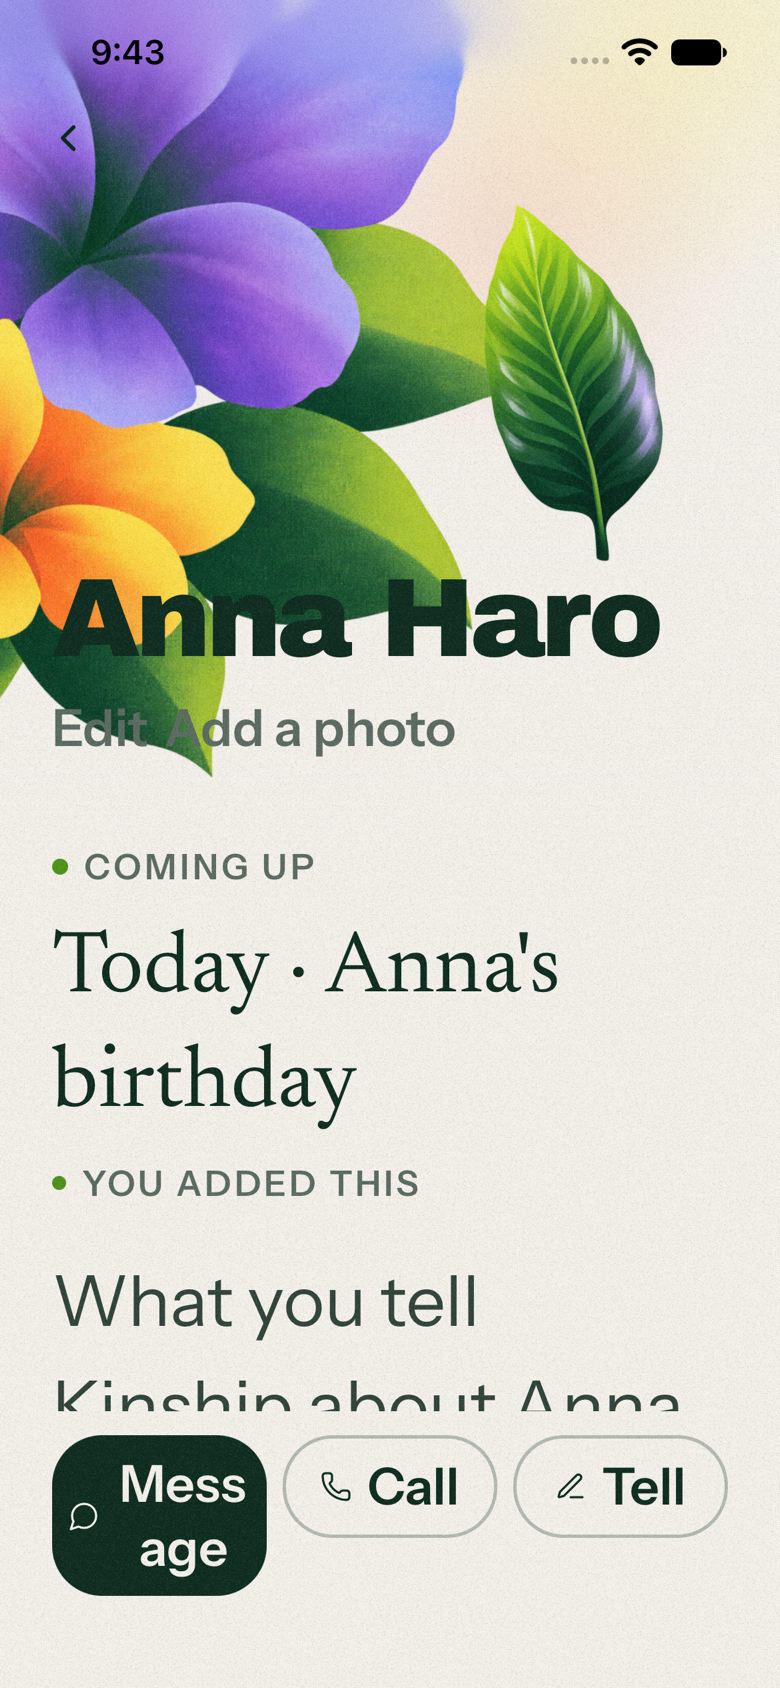
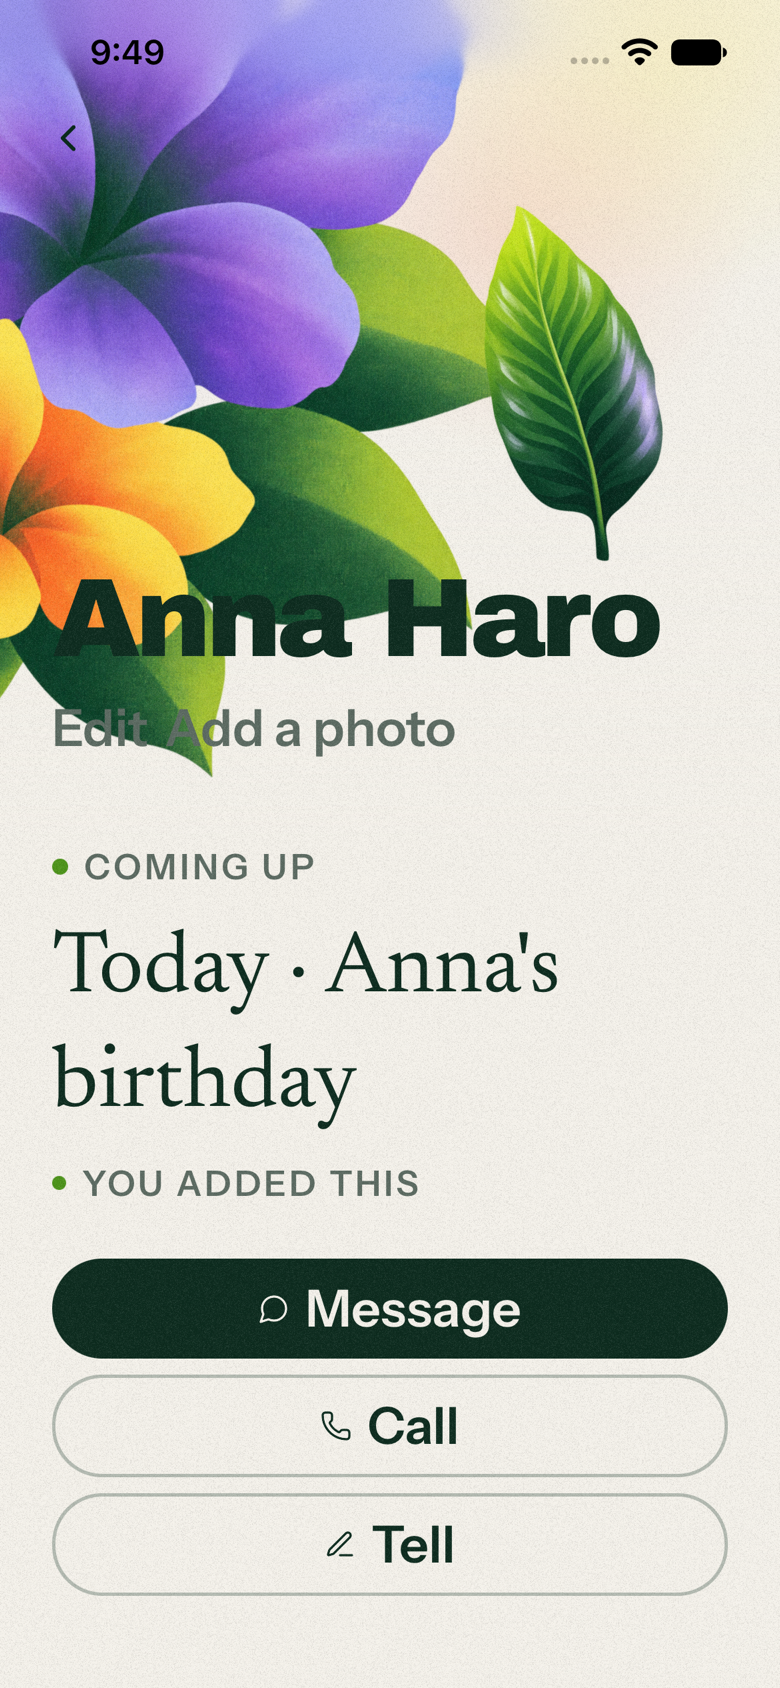
WS-2 Electric Garden: stacked actions at accessibility sizes stretch (not flex), coverage and handoff native notes, final captures

Changed region(s): [[0.0615, 0.7393, 0.9538, 0.955]]

diff --git a/src/features/person/PortraitView.tsx b/src/features/person/PortraitView.tsx
@@ -226,25 +226,29 @@ export function PortraitView(props: PortraitViewProps) {
   const first = props.short?.trim() || props.name.trim().split(/\s+/u)[0];
   // Nothing told about them yet (a birthday from Contacts doesn't count).
   const empty = !props.lately.length && !props.comingUp.some((l) => !l.fixed) && !props.youSaid.length && !props.between.length;
+  // At accessibility text sizes the three actions stack; stacked pills stretch (flex: 1 in a column with no
+  // set height collapses them onto each other, seen on the 17e at the largest size).
+  const stacked = isLargeText();
+  const grow = stacked ? { alignSelf: "stretch" as const } : { flex: 1 };
   const footer = (
     <View style={{ backgroundColor: p.paper }}>
     {props.kept ? <View style={{ paddingHorizontal: GUTTER }}>{props.kept}</View> : null}
     {/* Message · Call · Tell (founder native pass F1): three named actions,
         the same size. Tell adds to what Kinship knows about them; changing
         what's already kept happens on the line itself. */}
-    <View style={{ flexDirection: isLargeText() ? "column" : "row", gap: space.s, paddingHorizontal: GUTTER, paddingTop: space.m, paddingBottom: space.m }}>
+    <View style={{ flexDirection: stacked ? "column" : "row", gap: space.s, paddingHorizontal: GUTTER, paddingTop: space.m, paddingBottom: space.m }}>
       <Pill
         variant="primary"
         dense
         label="Message"
-        style={{ flex: 1 }}
+        style={grow}
         icon={({ color, size: s, strokeWidth }) => <MessageCircle color={color} size={s} strokeWidth={strokeWidth} />}
         onPress={props.onMessage}
       />
       <Pill
         dense
         label="Call"
-        style={{ flex: 1 }}
+        style={grow}
         icon={({ color, size: s, strokeWidth }) => <Phone color={color} size={s} strokeWidth={strokeWidth} />}
         onPress={props.onCall}
       />
@@ -253,7 +257,7 @@ export function PortraitView(props: PortraitViewProps) {
         label="Tell"
         accessibilityLabel={`Tell Kinship about ${first}`}
         accessibilityHint={props.hasDraft ? "Opens your unsent note" : undefined}
-        style={{ flex: 1 }}
+        style={grow}
         icon={({ color, size: s, strokeWidth }) => <PenLine color={color} size={s} strokeWidth={strokeWidth} />}
         onPress={props.onTell}
       />

diff --git a/src/ui/__tests__/pillActions.test.tsx b/src/ui/__tests__/pillActions.test.tsx
@@ -19,6 +19,24 @@ jest.mock("react-native-safe-area-context", () => jest.requireActual("react-nati
 beforeEach(() => jest.spyOn(PixelRatio, "getFontScale").mockReturnValue(1));
 afterEach(() => jest.restoreAllMocks());
 
+it("at accessibility text sizes the person page's three actions stack and stretch (never flex: 1 in a column, which overlaps them)", () => {
+  jest.spyOn(PixelRatio, "getFontScale").mockReturnValue(3.1);
+  const { PortraitView } = jest.requireActual("@/features/person/PortraitView") as typeof import("@/features/person/PortraitView");
+  const noop = () => undefined;
+  let r!: TestRenderer.ReactTestRenderer;
+  act(() => {
+    r = TestRenderer.create(
+      <PortraitView personId="p" name="Anna Haro" label={null} remembered={false} lately={[]} comingUp={[]} youSaid={[]} between={[]} total={0}
+        onBack={noop} onLine={noop} onSource={noop} onKnows={noop} onMessage={noop} onCall={noop} onTell={noop} />,
+    );
+  });
+  for (const label of ["Message", "Call"]) {
+    const style = styleOf(pill(r, label).pressable);
+    expect(style.flex).toBeUndefined();
+    expect(style.alignSelf).toBe("stretch");
+  }
+});
+
 it("at accessibility text sizes a pill's label wraps to two lines instead of shrinking (the label never vanishes)", () => {
   jest.spyOn(PixelRatio, "getFontScale").mockReturnValue(3.1);
   let r!: TestRenderer.ReactTestRenderer;

diff --git a/src/features/today/MomentDetailSheet.tsx b/src/features/today/MomentDetailSheet.tsx
@@ -40,7 +40,7 @@ export function MomentDetailSheet({ detail, onDismiss, onMessage, onCall, onPers
               dense
               label="Message"
               accessibilityHint={`Opens a conversation with ${detail.personName}`}
-              style={{ flex: 1 }}
+              style={isLargeText() ? { alignSelf: "stretch" } : { flex: 1 }}
               icon={({ color, size, strokeWidth }) => <MessageCircle color={color} size={size} strokeWidth={strokeWidth} />}
               onPress={onMessage}
             />
@@ -48,7 +48,7 @@ export function MomentDetailSheet({ detail, onDismiss, onMessage, onCall, onPers
               dense
               label="Call"
               accessibilityHint={`Calls ${detail.personName}`}
-              style={{ flex: 1 }}
+              style={isLargeText() ? { alignSelf: "stretch" } : { flex: 1 }}
               icon={({ color, size, strokeWidth }) => <Phone color={color} size={size} strokeWidth={strokeWidth} />}
               onPress={onCall}
             />

diff --git a/docs/agent-loop/PRODUCT_DELIVERY_HANDOFF.md b/docs/agent-loop/PRODUCT_DELIVERY_HANDOFF.md
@@ -72,7 +72,7 @@ Open in WS-1: black-box regression against this branch's gateway (k27, k4, k28, 
 
 ## WS-2 · Electric Garden
 
-**Branch** `claude/ws2-electric-garden-5ec0d5` · **PR** #71 (draft, against `main`; do not merge) · **commit** see the PR's head. Worktree session WS-2, started 30 Oct.
+**Branch** `claude/ws2-electric-garden-5ec0d5` · **PR** #71 (draft, against `main`; do not merge) · **head** 087dcc4 and later (see the PR). Worktree session WS-2, started 30 Oct.
 
 **Built (FD-30b):**
 - `src/design/tokens.ts` rewritten for Electric Garden: warm paper, leaf-green ink, a lime `mark` / `markText` for everything understood (the ochre tokens are gone from the 2.0 shell), the five art accents, a night set that keeps the art vivid; the poster type scale (Archivo Black names / statement / titles, Newsreader italic for the user's words, Instrument Sans 400–700 for the machine); motion (hero 520 ms, arrive 320, sheets 360, Reduce Motion → 150 ms fades), depth (sheet and field lifts), art tokens. Contrast gates updated; every pair passes.
@@ -87,7 +87,9 @@ Open in WS-1: black-box regression against this branch's gateway (k27, k4, k28, 
 
 **Not built / known defects:** see the PR's evidence section, kept current. The poster split (the name at 120 pt, the statement's remainder under it) applies only when the statement opens with the person's name followed by a space; otherwise the whole statement sits under the name. The e2e black-box helpers that look for a statement as one Text node will see the split for such statements; the accessibility label is always the whole statement.
 
-**Evidence:** UNIT: `TZ=UTC npx jest` 964 / 964, `tsc` and `eslint` clean at each push. NATIVE-SIMULATOR: the Release simulator walk and its screenshots under `docs/product/screens/electric-garden/`, reported row by row in the PR. Readiness: **NOT READY** (the integrated candidate decides).
+**Evidence (31 Oct):** UNIT: `TZ=UTC npx jest` 102 suites / 975 tests, `tsc` and `eslint` clean at each push. NATIVE-SIMULATOR: `docs/product/electric-garden-simulator-evidence.md`, 21 rows, screenshots under `docs/product/screens/electric-garden/` (iPhone 18 Pro and iPhone 17e, light, dark, largest text). Four defects found on the pass and fixed on the branch (grain tile, person-page leaf, pill labels at accessibility sizes, text over the bloom on Welcome / first use). Not seen natively: the review sheet and a kept card with lines (the local stack's understanding failed for the test notes on 31 Oct; a gateway / stub matter, not the app) and Reduce Motion (unit only). Readiness: **NOT READY** (the integrated candidate decides).
+
+**Simulator hygiene learned on this pass:** with two simulators booted, `simctl … booted` is ambiguous and twice landed another session's install on the device WS-2 was driving; address devices by UDID (18 Pro `D32566F4-C041-4535-81AF-0ADB99356787`, 17e `F1EF2B5A-0E3F-462F-AE20-1B04F946B275`).
 
 ## WS-3 · Showing up
 

diff --git a/docs/product/electric-garden-simulator-evidence.md b/docs/product/electric-garden-simulator-evidence.md
@@ -25,12 +25,12 @@ Tiers reported apart: UNIT · NATIVE-SIMULATOR. Nothing here is FOUNDER-DEVICE. 
 | 17 | Source | The note with the lime underline; a dim leaf | **PASS** (18 Pro) | `19-source.png` |
 | 18 | Settings | Title, rows unchanged | **PASS** (17e) | `20-settings.png` |
 | 19 | Dark: Today, Person, People | Deep green-black paper; the art vivid; the wash quiet; text pairs legible | **PASS** (17e): the art vivid on green-black paper, the wash quiet, lime marks, off-white ink | `21-dark-today.png`, `22-dark-person.png`, `23-dark-people.png` |
-| 20 | Largest accessibility text: Today, Person | The statement reflows, nothing truncates; the poster name stays fitted; labels cap | **FAIL → fixed**: at accessibility XXXL every pill lost its label (iOS fit-to-width left the pill blank); pills now wrap their label at large scales (rebuilt, re-checked below). The statement reflows, nothing truncates, the poster name stays fitted | `24-ax-today.png`, `25-ax-person.png` |
+| 20 | Largest accessibility text: Today, Person | The statement reflows, nothing truncates; the poster name stays fitted; labels cap | **FAIL → fixed**: at accessibility XXXL every pill lost its label (iOS fit-to-width left the pill blank); pills now wrap their label at large scales and rows of actions (the person's Message · Call · Tell, the Moment detail's Message · Call) stack vertically, so a label never breaks mid-word (rebuilt and re-checked: `24-ax-today.png` shows "Message Anna" whole and "Not now" on its own row). The statement reflows, nothing truncates, the poster name stays fitted | `24-ax-today.png`, `25-ax-person.png` |
 | 21 | Reduce Motion | The hero fades instead of rising (settings → Accessibility → Motion) | NOT RUN natively (the setting is not reachable from the simulator tooling without the Settings app walk); UNIT: the hero and every arrive use the 150 ms fade under Reduce Motion by the same hook as before | — |
 
 ## Defects found on the simulator and fixed on the branch
 
-- Pill labels vanished at accessibility text sizes (row 20): labels now wrap to two lines at scales above 1.35 instead of shrinking.
+- Pill labels vanished at accessibility text sizes (row 20): labels now wrap at scales above 1.35 instead of shrinking, and the three-up and two-up action rows stack and stretch (`isLargeText()` in `src/ui/theme.ts`; a first stacked version used `flex: 1` in the column and the pills overlapped, caught on the same pass and fixed, `25-ax-person.png`).
 - The first-use orientation and the welcome promise ran over the bloom; the bloom sits higher and smaller on those two screens. The example's leaf sat under the close control; moved.
 
 - A repeating `Image` (the grain) drew one tile at the top left on this renderer: the grain is now a grid of finer tiles at a lower strength.

diff --git a/docs/product/approved-design-coverage.md b/docs/product/approved-design-coverage.md
@@ -401,6 +401,8 @@ The founder's direction: no silent capacity-based loss and no false completion r
 
 **Motion:** arrive 320 ms / 8 pt; the hero 520 ms / 14 pt (Reanimated); sheets 360 ms with no overshoot; Reduce Motion → 150 ms fades everywhere. Pressed feedback stays the two press tokens.
 
+**Native (31 Oct 2026):** NATIVE-SIMULATOR pass recorded row by row in `electric-garden-simulator-evidence.md` (screenshots in `screens/electric-garden/`): Welcome, See how it works, every setup step, Today (a Moment with and without the person's photo, a quiet day, first use), Moment detail, hand-off, People, Person (with and without a photo, Add a photo), correction, What Kinship knows, Source, Settings, dark mode, the largest accessibility text size and the iPhone 17e width all PASS after four fixes made on the pass (the grain drawn once, the person-page leaf, pill labels vanishing at accessibility sizes, text over the bloom on Welcome and first use). Not seen natively: the review sheet and a kept card with lines (the local stack's understanding failed on this pass; the correction sheet shares their tokens) and Reduce Motion (unit-tested only). Readiness stays **NOT READY**; the integrated candidate decides.
+
 **Not done faithfully, and why:** (1) the Stage 1 still sets the no-photo name at 148–164 pt with a hairline ink keyline; the app fits the name to the page (120 max) and draws the keyline as a soft text shadow, since React Native has no text stroke; (2) the still's sources are 10.5 pt caps; the app uses 11 pt so they keep the label cap at Dynamic Type; (3) the lime dot is darker than the still (contrast); (4) the grain is a tiled raster at 32 % (14 % at night), not an SVG `feTurbulence` filter (react-native-svg has no filter primitives on this version); (5) the week stays as stacked quiet lines rather than the still's one horizontal row, so a long line never truncates at accessibility sizes. Each is a visual-only interpretation; none changes an experience rule.
 
 ## K27 (founder, 18 Oct, CC-27): no surface changes
